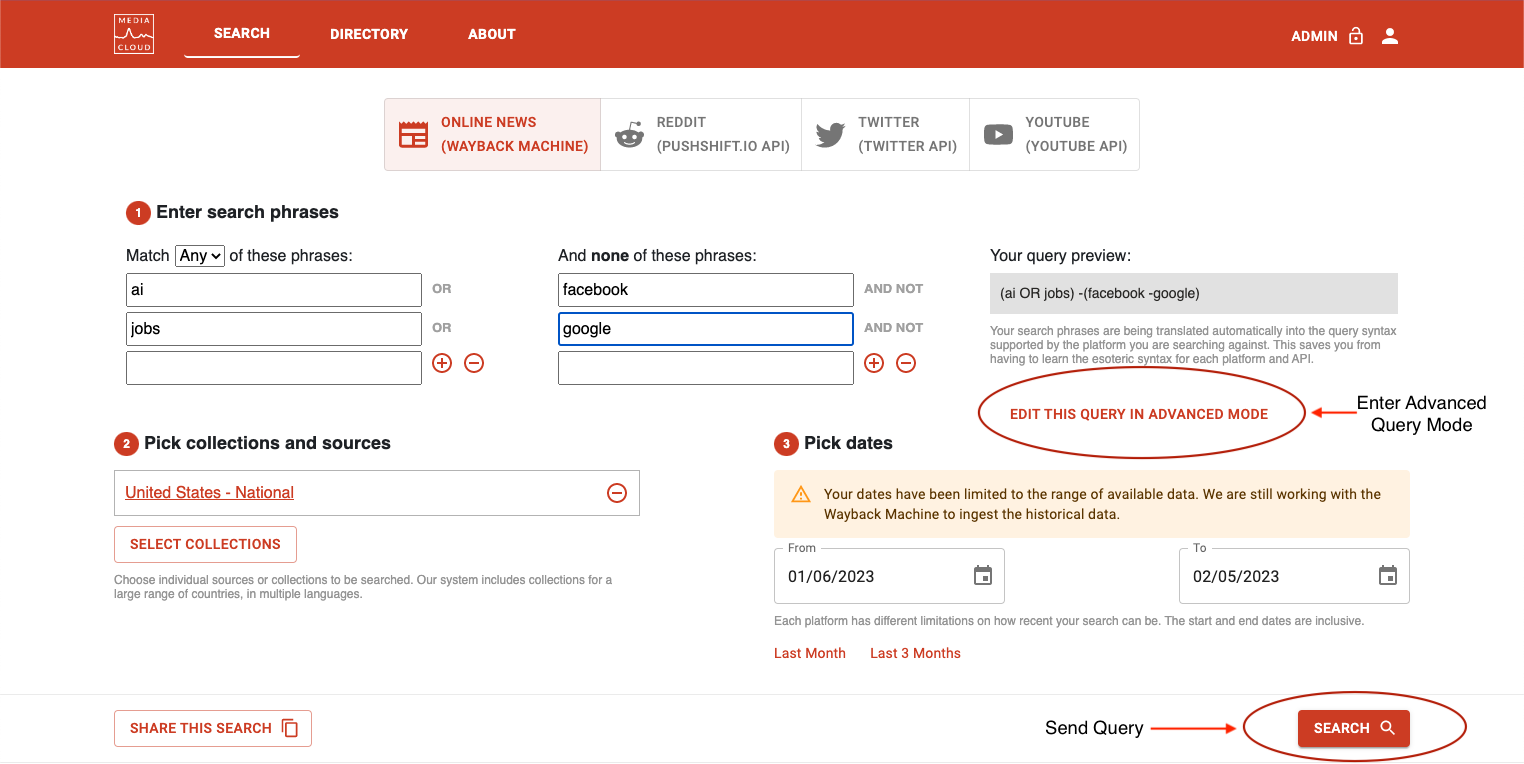
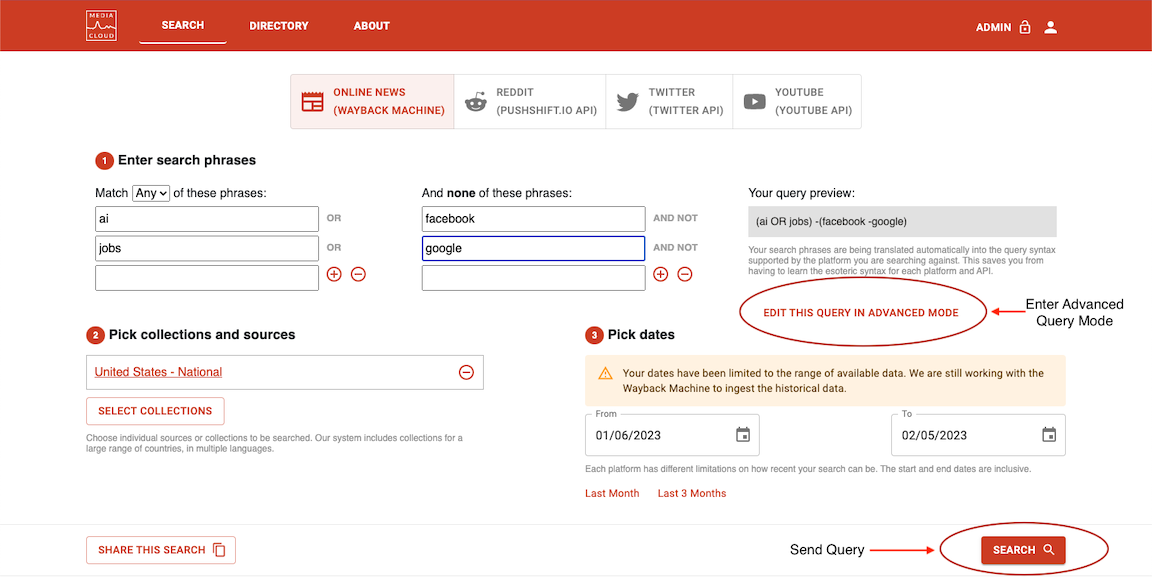
Style and size adjustments

diff --git a/mcweb/frontend/src/features/about/AboutSearch.jsx b/mcweb/frontend/src/features/about/AboutSearch.jsx
@@ -32,7 +32,7 @@ export default function AboutSearch() {
       <div className="feature-area">
         <div className="container">
           <div className="row">
-            <div className="col-5 offset-1">
+            <div className="col-4">
               <h2>Simple Search Tool</h2>
               <p>
                 Welcome to the search tool! Search phrases are translated automatically into the
@@ -52,11 +52,11 @@ export default function AboutSearch() {
                 </li>
               </ul>
             </div>
-            <div className="col-5">
+            <div className="col-7">
               <img
-                src={assetUrl('img/simple_search.png')}
+                src={assetUrl('img/simple_search.jpg')}
                 alt="screenshot of simple search"
-
+                style={{ marginTop: '15%' }}
               />
             </div>
           </div>
@@ -66,14 +66,14 @@ export default function AboutSearch() {
       <div className="feature-area filled">
         <div className="container">
           <div className="row">
-            <div className="col-5 offset-1">
+            <div className="col-9">
               <img
-                src={assetUrl('img/advaced_search_screen.png')}
+                src={assetUrl('img/advanced_search.jpg')}
                 alt="screenshot of advanced search"
-
+                style={{ marginTop: '5%' }}
               />
             </div>
-            <div className="col-5">
+            <div className="col-3">
               <h2> Advanced Search</h2>
               <p>
                 Option to write queries in plain text with syntax highlighting. Import to make sure
@@ -88,7 +88,7 @@ export default function AboutSearch() {
       <div className="feature-area ">
         <div className="container">
           <div className="row">
-            <div className="col-5 offset-1">
+            <div className="col-5">
               <h2>Media Picker</h2>
               <p>
                 Here you can choose collections or sources to search against for each platform tab.
@@ -123,9 +123,9 @@ export default function AboutSearch() {
                 </ul>
               </ul>
             </div>
-            <div className="col-5">
+            <div className="col-7">
               <img
-                src={assetUrl('img/media_picker_modal.png')}
+                src={assetUrl('img/media_picker_modal.jpg')}
                 alt="screenshot of media picker"
 
               />
@@ -137,14 +137,14 @@ export default function AboutSearch() {
       <div className="feature-area filled">
         <div className="container">
           <div className="row">
-            <div className="col-5 offset-1">
+            <div className="col-7">
               <img
-                src={assetUrl('img/date_picker.png')}
+                src={assetUrl('img/date_picker.jpg')}
                 alt="screenshot of date picker"
 
               />
             </div>
-            <div className="col-5">
+            <div className="col-4">
               <h2>Date Picker</h2>
               <p>
                 You are able to limit a search to specific date periods. The dates that are available
@@ -165,18 +165,18 @@ export default function AboutSearch() {
       <div className="feature-area">
         <div className="container">
           <div className="row">
-            <div className="col-5 offset-1">
+            <div className="col-3" style={{ marginTop: '5%' }}>
               <h2>Copy Search</h2>
               <p>
-                Ability to copy a url of an in progress query or a query that has been run, to share with others.
+                Copy a url of an in progress query or a query that has been run, to share with others.
 
               </p>
             </div>
-            <div className="col-5">
+            <div className="col-9">
               <img
-                src={assetUrl('img/copy_search.png')}
+                src={assetUrl('img/copy_search.jpg')}
                 alt="screenshot of copy search modal"
-
+                style={{ marginLeft: '15%' }}
               />
             </div>
           </div>
@@ -196,15 +196,15 @@ export default function AboutSearch() {
       <div className="feature-area">
         <div className="container">
           <div className="row">
-            <div className="col-5 offset-1">
+            <div className="col-4">
               <h2>Total Attention</h2>
               <p>
-                See the total number of hits and the % of stories your topic was for a time period
+                See the total number of hits and the % of stories your topic returned for a time period
               </p>
             </div>
-            <div className="col-5">
+            <div className="col-7">
               <img
-                src={assetUrl('img/total_attention.png')}
+                src={assetUrl('img/total_attention.jpg')}
                 alt="screenshot of total attention"
 
               />
@@ -216,14 +216,14 @@ export default function AboutSearch() {
       <div className="feature-area filled">
         <div className="container">
           <div className="row">
-            <div className="col-5 offset-1">
+            <div className="col-9">
               <img
-                src={assetUrl('img/attention_over_time_annotated.png')}
+                src={assetUrl('img/attention_over_time_annotated.jpg')}
                 alt="screenshot of attention over time"
 
               />
             </div>
-            <div className="col-5">
+            <div className="col-3">
               <h2> Attention Over Time</h2>
               <p>
                 Check day by day what the number of hits or % of stories your topic was for a time period
@@ -236,16 +236,16 @@ export default function AboutSearch() {
       <div className="feature-area">
         <div className="container">
           <div className="row">
-            <div className="col-5 offset-1">
+            <div className="col-3">
               <h2>Sample Results</h2>
               <p>
                 Get a small sample of results from your query, will change depending on platform,
                 option to download for each platform
               </p>
             </div>
-            <div className="col-5">
+            <div className="col-9">
               <img
-                src={assetUrl('img/sample_content.png')}
+                src={assetUrl('img/sample_content.jpg')}
                 alt="screenshot of sample_content"
 
               />
@@ -257,14 +257,14 @@ export default function AboutSearch() {
       <div className="feature-area filled">
         <div className="container">
           <div className="row">
-            <div className="col-5 offset-1">
+            <div className="col-8">
               <img
-                src={assetUrl('img/top_words.png')}
+                src={assetUrl('img/top_words.jpg')}
                 alt="screenshot of sample_content"
 
               />
             </div>
-            <div className="col-5">
+            <div className="col-4">
               <h2> Words (experimental)</h2>
               <p>
                 Experimental feature to see words that appear most often in results
@@ -277,15 +277,15 @@ export default function AboutSearch() {
       <div className="feature-area">
         <div className="container">
           <div className="row">
-            <div className="col-5 offset-1">
+            <div className="col-4">
               <h2>Languages (experimental)</h2>
               <p>
                 Experimental feature to see what languages that appear most often in results
               </p>
             </div>
-            <div className="col-5">
+            <div className="col-8">
               <img
-                src={assetUrl('img/top_languages.png')}
+                src={assetUrl('img/top_languages.jpg')}
                 alt="screenshot of sample_content"
 
               />
@@ -297,7 +297,7 @@ export default function AboutSearch() {
       <div className="feature-area filled">
         <div className="container">
           <div className="row">
-            <div className="col-12 text-center">
+            <div className="col-10 text-center">
               <h1>
                 API Search Guide
               </h1>
@@ -306,7 +306,7 @@ export default function AboutSearch() {
                 collections of sources, to provide as much searchable information as we can.
                 While some APIs (like the Wayback Machine) are able to give us more comprehensive
                 data such as complete article text, others (such as Youtube), are more limited in
-                the information they make available to researchers.
+                the information they make available.
               </p>
               <p>
                 We&rsquo;ve included a guide here on all of the APIs currently used by the Media Cloud
@@ -322,7 +322,7 @@ export default function AboutSearch() {
       <div className="feature-area">
         <div className="container">
           <div className="row">
-            <div className="col-5 offset-1">
+            <div className="col-4">
               <h3>Wayback Machine</h3>
               <ul>
                 <li style={{ width: '60%' }}>
@@ -381,9 +381,9 @@ export default function AboutSearch() {
             </div>
             <div className="col-5">
               <img
-                src={assetUrl('img/full_search_screen_AM_search_highlighted.png')}
+                src={assetUrl('img/full_search_screen_AM_search_highlighted.jpg')}
                 alt="screenshot of advanced search"
-
+                style={{ marginTop: '15%' }}
               />
             </div>
           </div>
